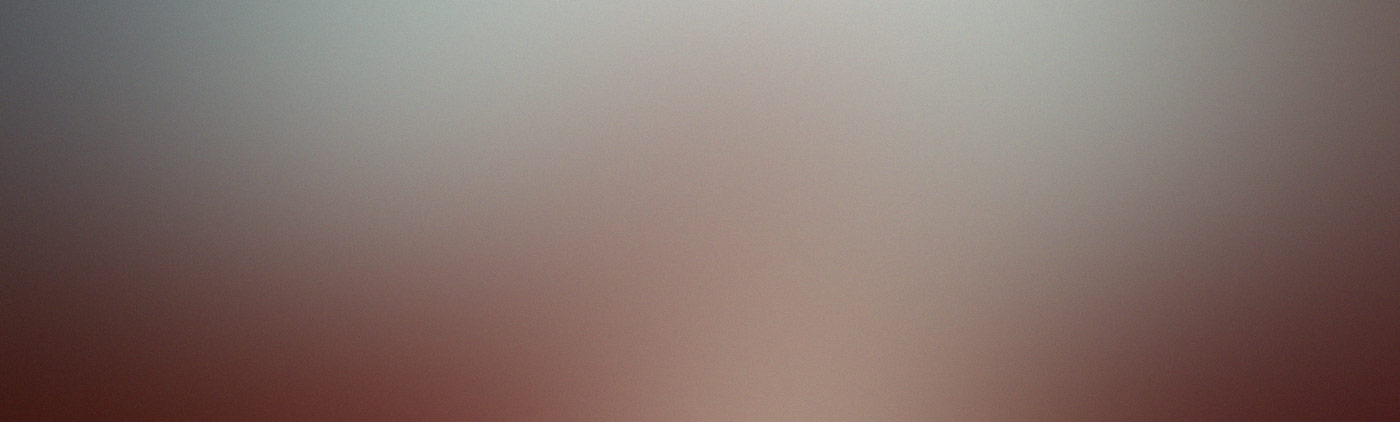
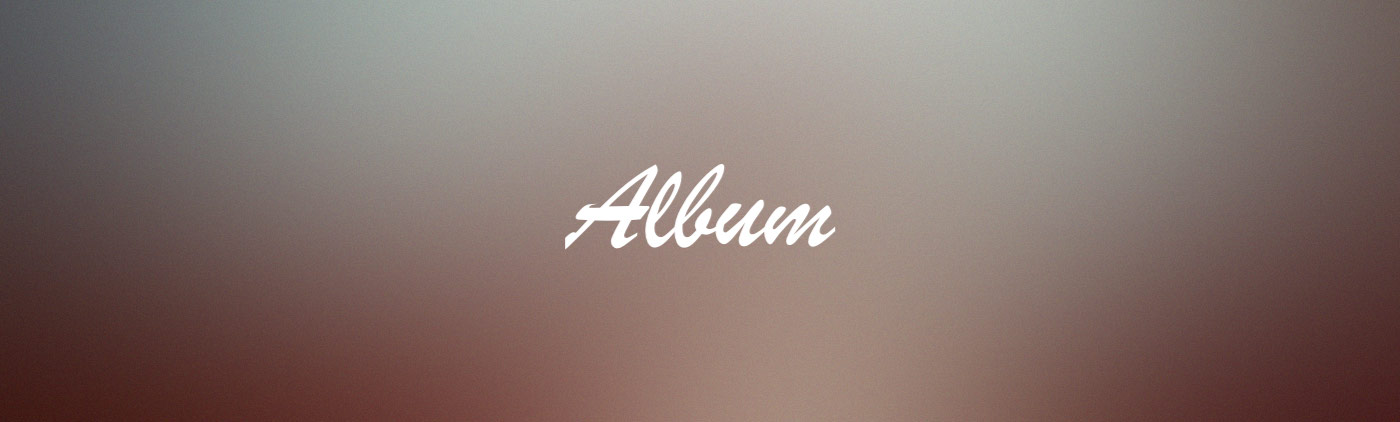
update

Changed region(s): [[0.3993, 0.4005, 0.6143, 0.5853]]

diff --git a/album.html b/album.html
@@ -1,0 +1,210 @@
+<!DOCTYPE HTML>
+<!--
+	Prologue by HTML5 UP
+	html5up.net | @ajlkn
+	Free for personal and commercial use under the CCA 3.0 license (html5up.net/license)
+-->
+<html>
+	<head>
+		<title>My Album</title>
+		<meta charset="utf-8" />
+		<meta name="viewport" content="width=device-width, initial-scale=1" />
+		<!--[if lte IE 8]><script src="assets/js/ie/html5shiv.js"></script><![endif]-->
+		<link rel="stylesheet" href="assets/css/main.css" />
+		<!--[if lte IE 8]><link rel="stylesheet" href="assets/css/ie8.css" /><![endif]-->
+		<!--[if lte IE 9]><link rel="stylesheet" href="assets/css/ie9.css" /><![endif]-->
+	</head>
+	<body>
+
+		<!-- Header -->
+			<div id="header">
+
+				<div class="top">
+
+					<!-- Logo -->
+						<div id="logo">
+							<span class="image avatar48"><img src="images/me.jpg" alt="" /></span>
+							<h1 id="title">Peizhi Yan</h1>
+							<h1 id="title">(Matthew Yan)</h1>
+						</div>
+
+					<!-- Nav -->
+						<nav id="nav">
+							<ul>
+								<li><a href="index.html" id="top-link" class="skel-layers-ignoreHref"><span class="icon fa-home">Home</span></a></li>
+							</ul>
+						</nav>
+
+				</div>
+
+				<div class="bottom">
+
+					<!-- Social Icons -->
+						<ul class="icons">
+							<li><a href="https://www.facebook.com/Matthew.P.Yen" class="icon fa-facebook"><span class="label">Facebook</span></a></li>
+							<li><a href="https://PeizhiYan.github.io" class="icon fa-github"><span class="label">Github</span></a></li>
+							<li><a href="mailto:yanpeizhi2008@gmail.com" class="icon fa-envelope"><span class="label">Email</span></a></li>
+						</ul>
+
+				</div>
+
+			</div>
+
+		<!-- Main -->
+			<div id="main">
+
+				<!-- Portfolio -->
+					<section id="portfolio" class="two">
+						<div class="container">
+
+							<header>
+								<h2>Album</h2>
+							</header>
+
+							<p> --------- </p>
+
+							<div class="row">
+								<div class="4u 12u$(mobile)">
+									<article class="item">
+										<a href="#" class="image fit"><img src="album/winter1.jpg" alt="" /></a>
+										<header>
+											<h3>Trees under the winter sunset</h3>
+										</header>
+									</article>
+									<article class="item">
+										<a href="#" class="image fit"><img src="album/winter2.jpg" alt="" /></a>
+										<header>
+											<h3>Frozen twigs</h3>
+										</header>
+									</article>
+									<article class="item">
+										<a href="#" class="image fit"><img src="album/winter3.jpg" alt="" /></a>
+										<header>
+											<h3>Ducks on the river in winter</h3>
+										</header>
+									</article>
+									<article class="item">
+										<a href="#" class="image fit"><img src="album/winter4.jpg" alt="" /></a>
+										<header>
+											<h3>Ducks under the winter sunset</h3>
+										</header>
+									</article>
+									<article class="item">
+										<a href="#" class="image fit"><img src="album/winter5.jpg" alt="" /></a>
+										<header>
+											<h3>Amazing window</h3>
+										</header>
+									</article>
+									<article class="item">
+										<a href="#" class="image fit"><img src="album/manhattan.jpg" alt="" /></a>
+										<header>
+											<h3>Buildings in Manhattan, NYC</h3>
+										</header>
+									</article>
+									<article class="item">
+										<a href="#" class="image fit"><img src="album/brooklyn.jpg" alt="" /></a>
+										<header>
+											<h3>Brooklyn Bridgge, NYC</h3>
+										</header>
+									</article>
+								</div>
+
+								<div class="4u 12u$(mobile)">
+									<article class="item">
+										<a href="#" class="image fit"><img src="album/CNtower.jpg" alt="" /></a>
+										<header>
+											<h3>CN Tower in Toronto</h3>
+										</header>
+									</article>
+									<article class="item">
+										<a href="#" class="image fit"><img src="album/tower.jpg" alt="" /></a>
+										<header>
+											<h3>Tower in Sault Ste. Marie, Canada</h3>
+										</header>
+									</article>
+									<article class="item">
+										<a href="#" class="image fit"><img src="album/goose.jpg" alt="" /></a>
+										<header>
+											<h3>Canadian goose</h3>
+										</header>
+									</article>
+									<article class="item">
+										<a href="#" class="image fit"><img src="album/riverside.jpg" alt="" /></a>
+										<header>
+											<h3>Listen!</h3>
+										</header>
+									</article>
+									<article class="item">
+										<a href="#" class="image fit"><img src="album/wood.jpg" alt="" /></a>
+										<header>
+											<h3>A piece of wood</h3>
+										</header>
+									</article>
+								</div>
+
+								<div class="4u$ 12u$(mobile)">
+									<article class="item">
+										<a href="#" class="image fit"><img src="album/blossom.jpg" alt="" /></a>
+										<header>
+											<h3>Spring blossom</h3>
+										</header>
+									</article>
+									<article class="item">
+										<a href="#" class="image fit"><img src="album/newlife.jpg" alt="" /></a>
+										<header>
+											<h3>New life</h3>
+										</header>
+									</article>
+									<article class="item">
+										<a href="#" class="image fit"><img src="album/redmoon.jpg" alt="" /></a>
+										<header>
+											<h3>Red moon</h3>
+										</header>
+									</article>
+									<article class="item">
+										<a href="#" class="image fit"><img src="album/school1.jpg" alt="" /></a>
+										<header>
+											<h3>My school in spring</h3>
+										</header>
+									</article>
+									<article class="item">
+										<a href="#" class="image fit"><img src="album/school2.jpg" alt="" /></a>
+										<header>
+											<h3>My school under a giant rainbow</h3>
+										</header>
+									</article>
+									<article class="item">
+										<a href="#" class="image fit"><img src="album/dusk.jpg" alt="" /></a>
+										<header>
+											<h3>Dusk</h3>
+										</header>
+									</article>
+								</div>
+							</div>
+
+						</div>
+					</section>
+			</div>
+				
+
+		<!-- Footer -->
+			<div id="footer">
+
+				<!-- Copyright -->
+					<ul class="copyright">
+						<li>&copy; Peizhi Yan. All rights reserved.</li><li>2017-2018</li>
+					</ul>
+
+			</div>
+
+		<!-- Scripts -->
+			<script src="assets/js/jquery.min.js"></script>
+			<script src="assets/js/jquery.scrolly.min.js"></script>
+			<script src="assets/js/jquery.scrollzer.min.js"></script>
+			<script src="assets/js/skel.min.js"></script>
+			<script src="assets/js/util.js"></script>
+			<!--[if lte IE 8]><script src="assets/js/ie/respond.min.js"></script><![endif]-->
+			<script src="assets/js/main.js"></script>
+
+	</body>
+</html>

diff --git a/index.html b/index.html
@@ -157,14 +157,9 @@
 								<h2>About Me</h2>
 							</header>
 
-							<a href="#" class="image featured"><img src="images/pic08.jpg" alt="" /></a>
+							<a href="album.html" class="image featured"><img src="images/pic08.jpg" style="border-radius: 12px;" alt="" /></a>
 
-							<p>Tincidunt eu elit diam magnis pretium accumsan etiam id urna. Ridiculus
-							ultricies curae quis et rhoncus velit. Lobortis elementum aliquet nec vitae
-							laoreet eget cubilia quam non etiam odio tincidunt montes. Elementum sem
-							parturient nulla quam placerat viverra mauris non cum elit tempus ullamcorper
-							dolor. Libero rutrum ut lacinia donec curae mus vel quisque sociis nec
-							ornare iaculis.</p>
+							<p>I like photography, this album is a collection of my favourite photos</p>
 
 						</div>
 					</section>
